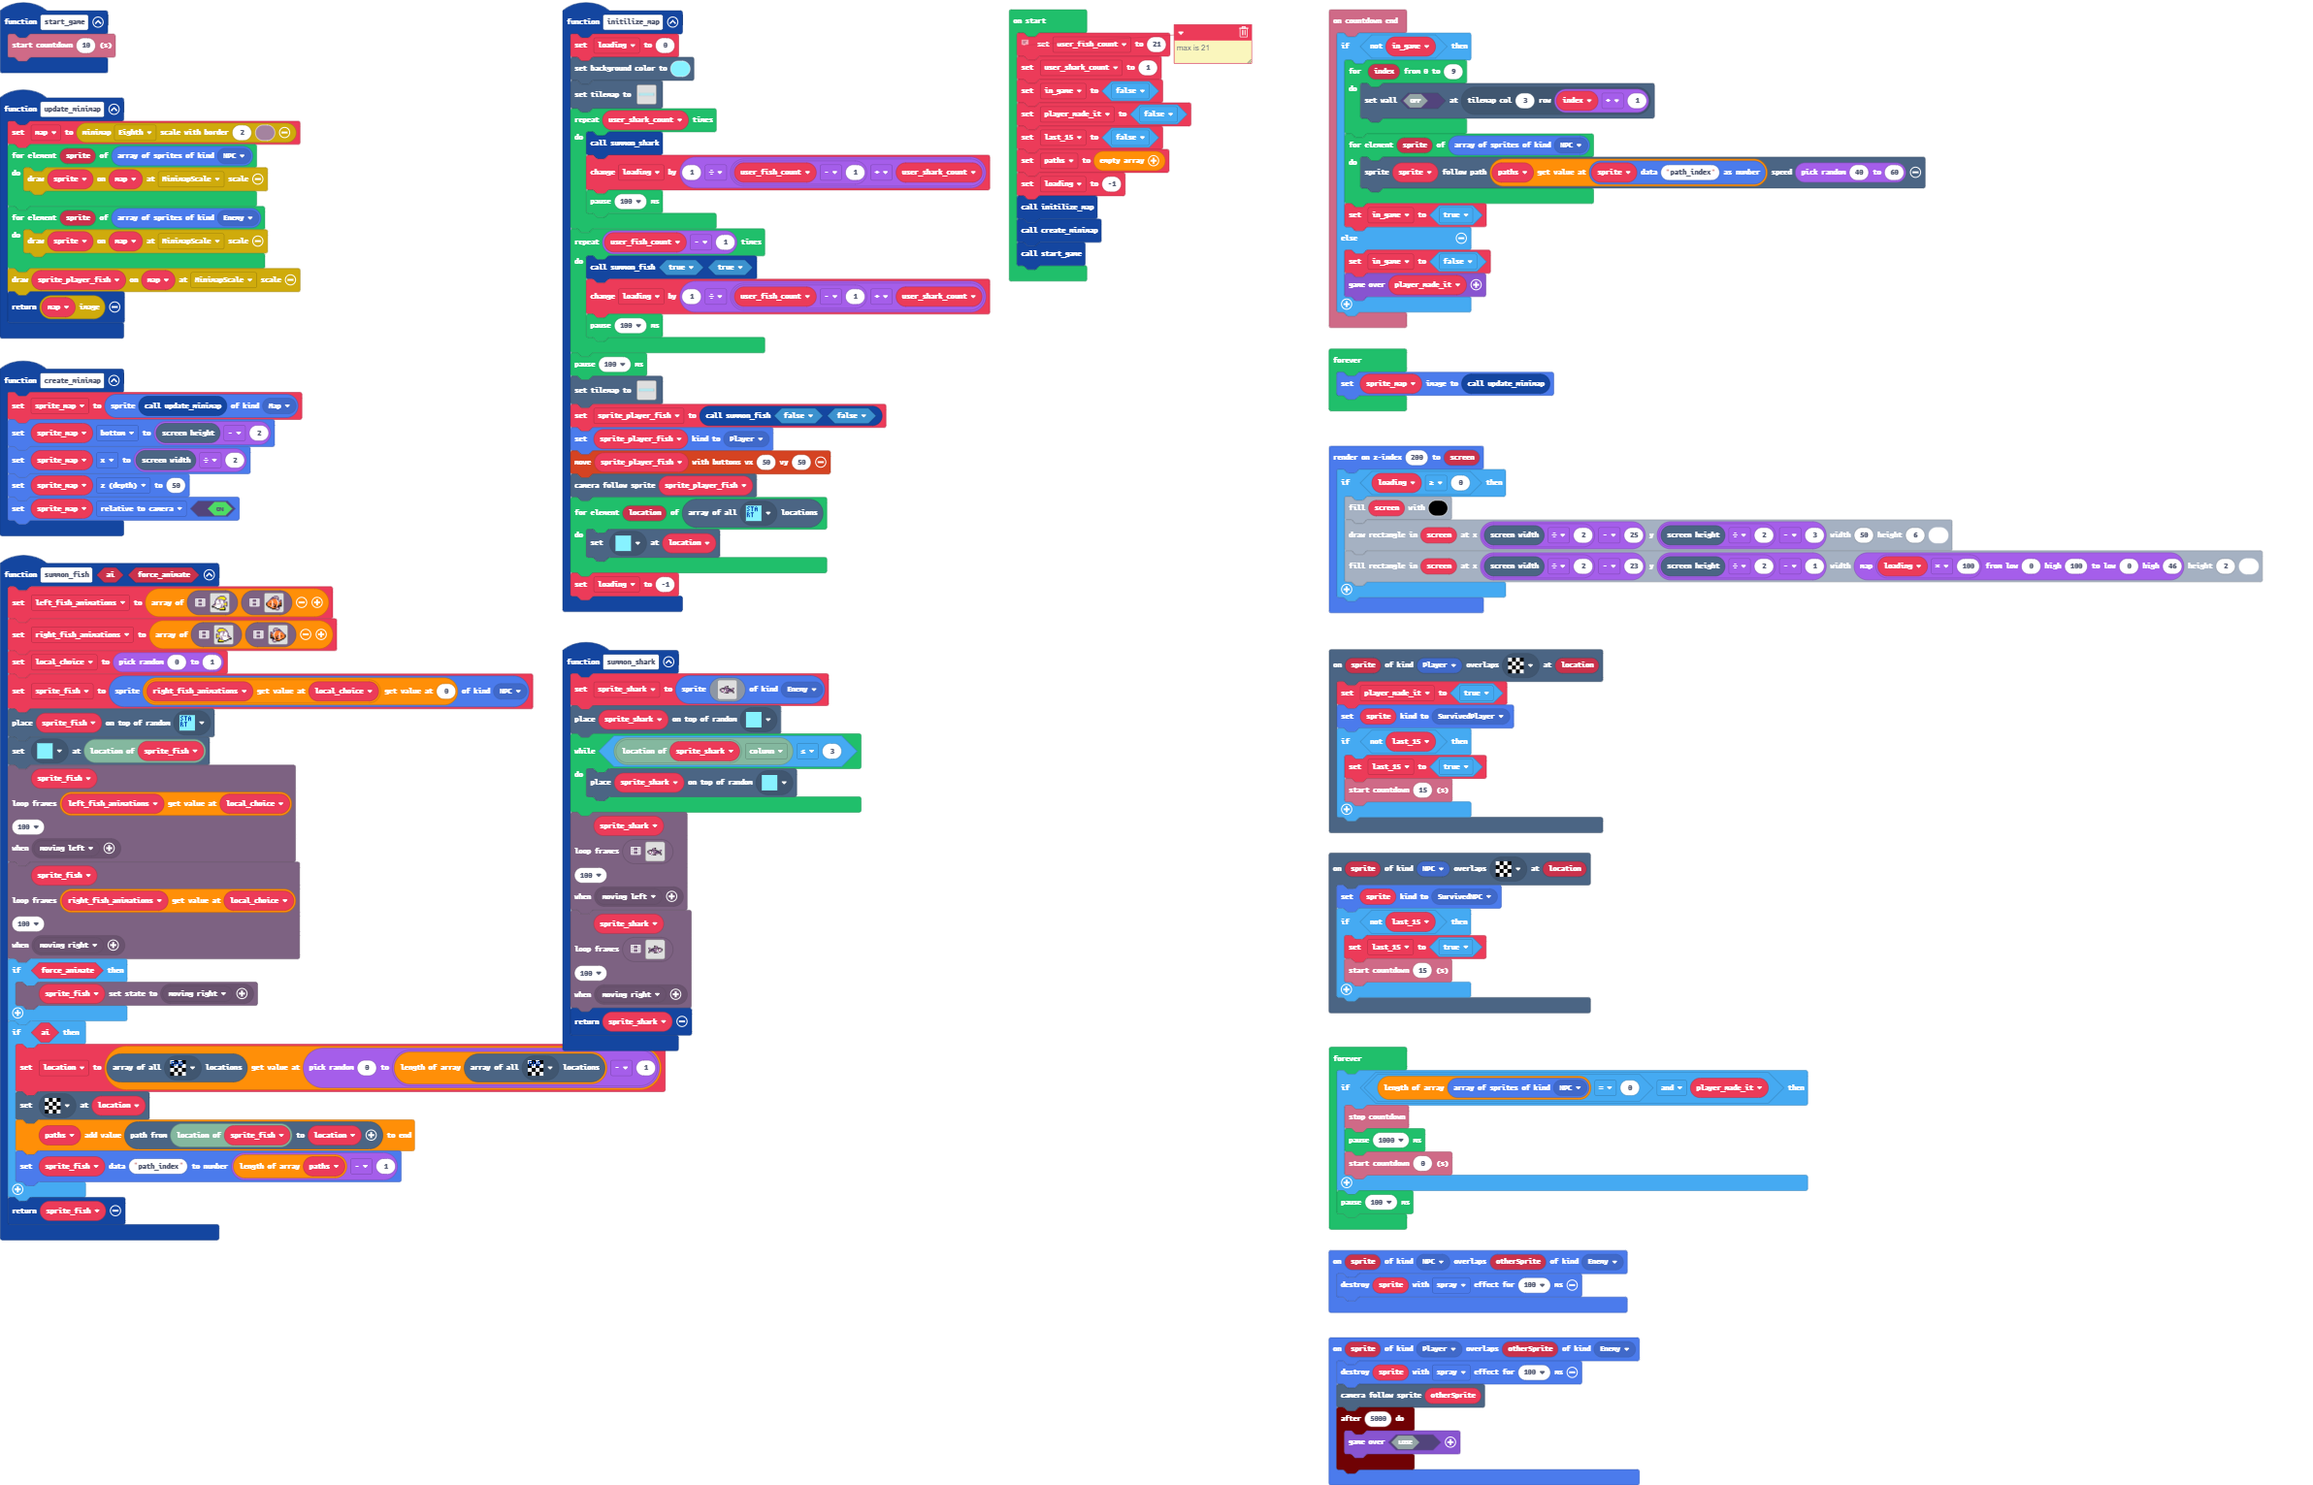
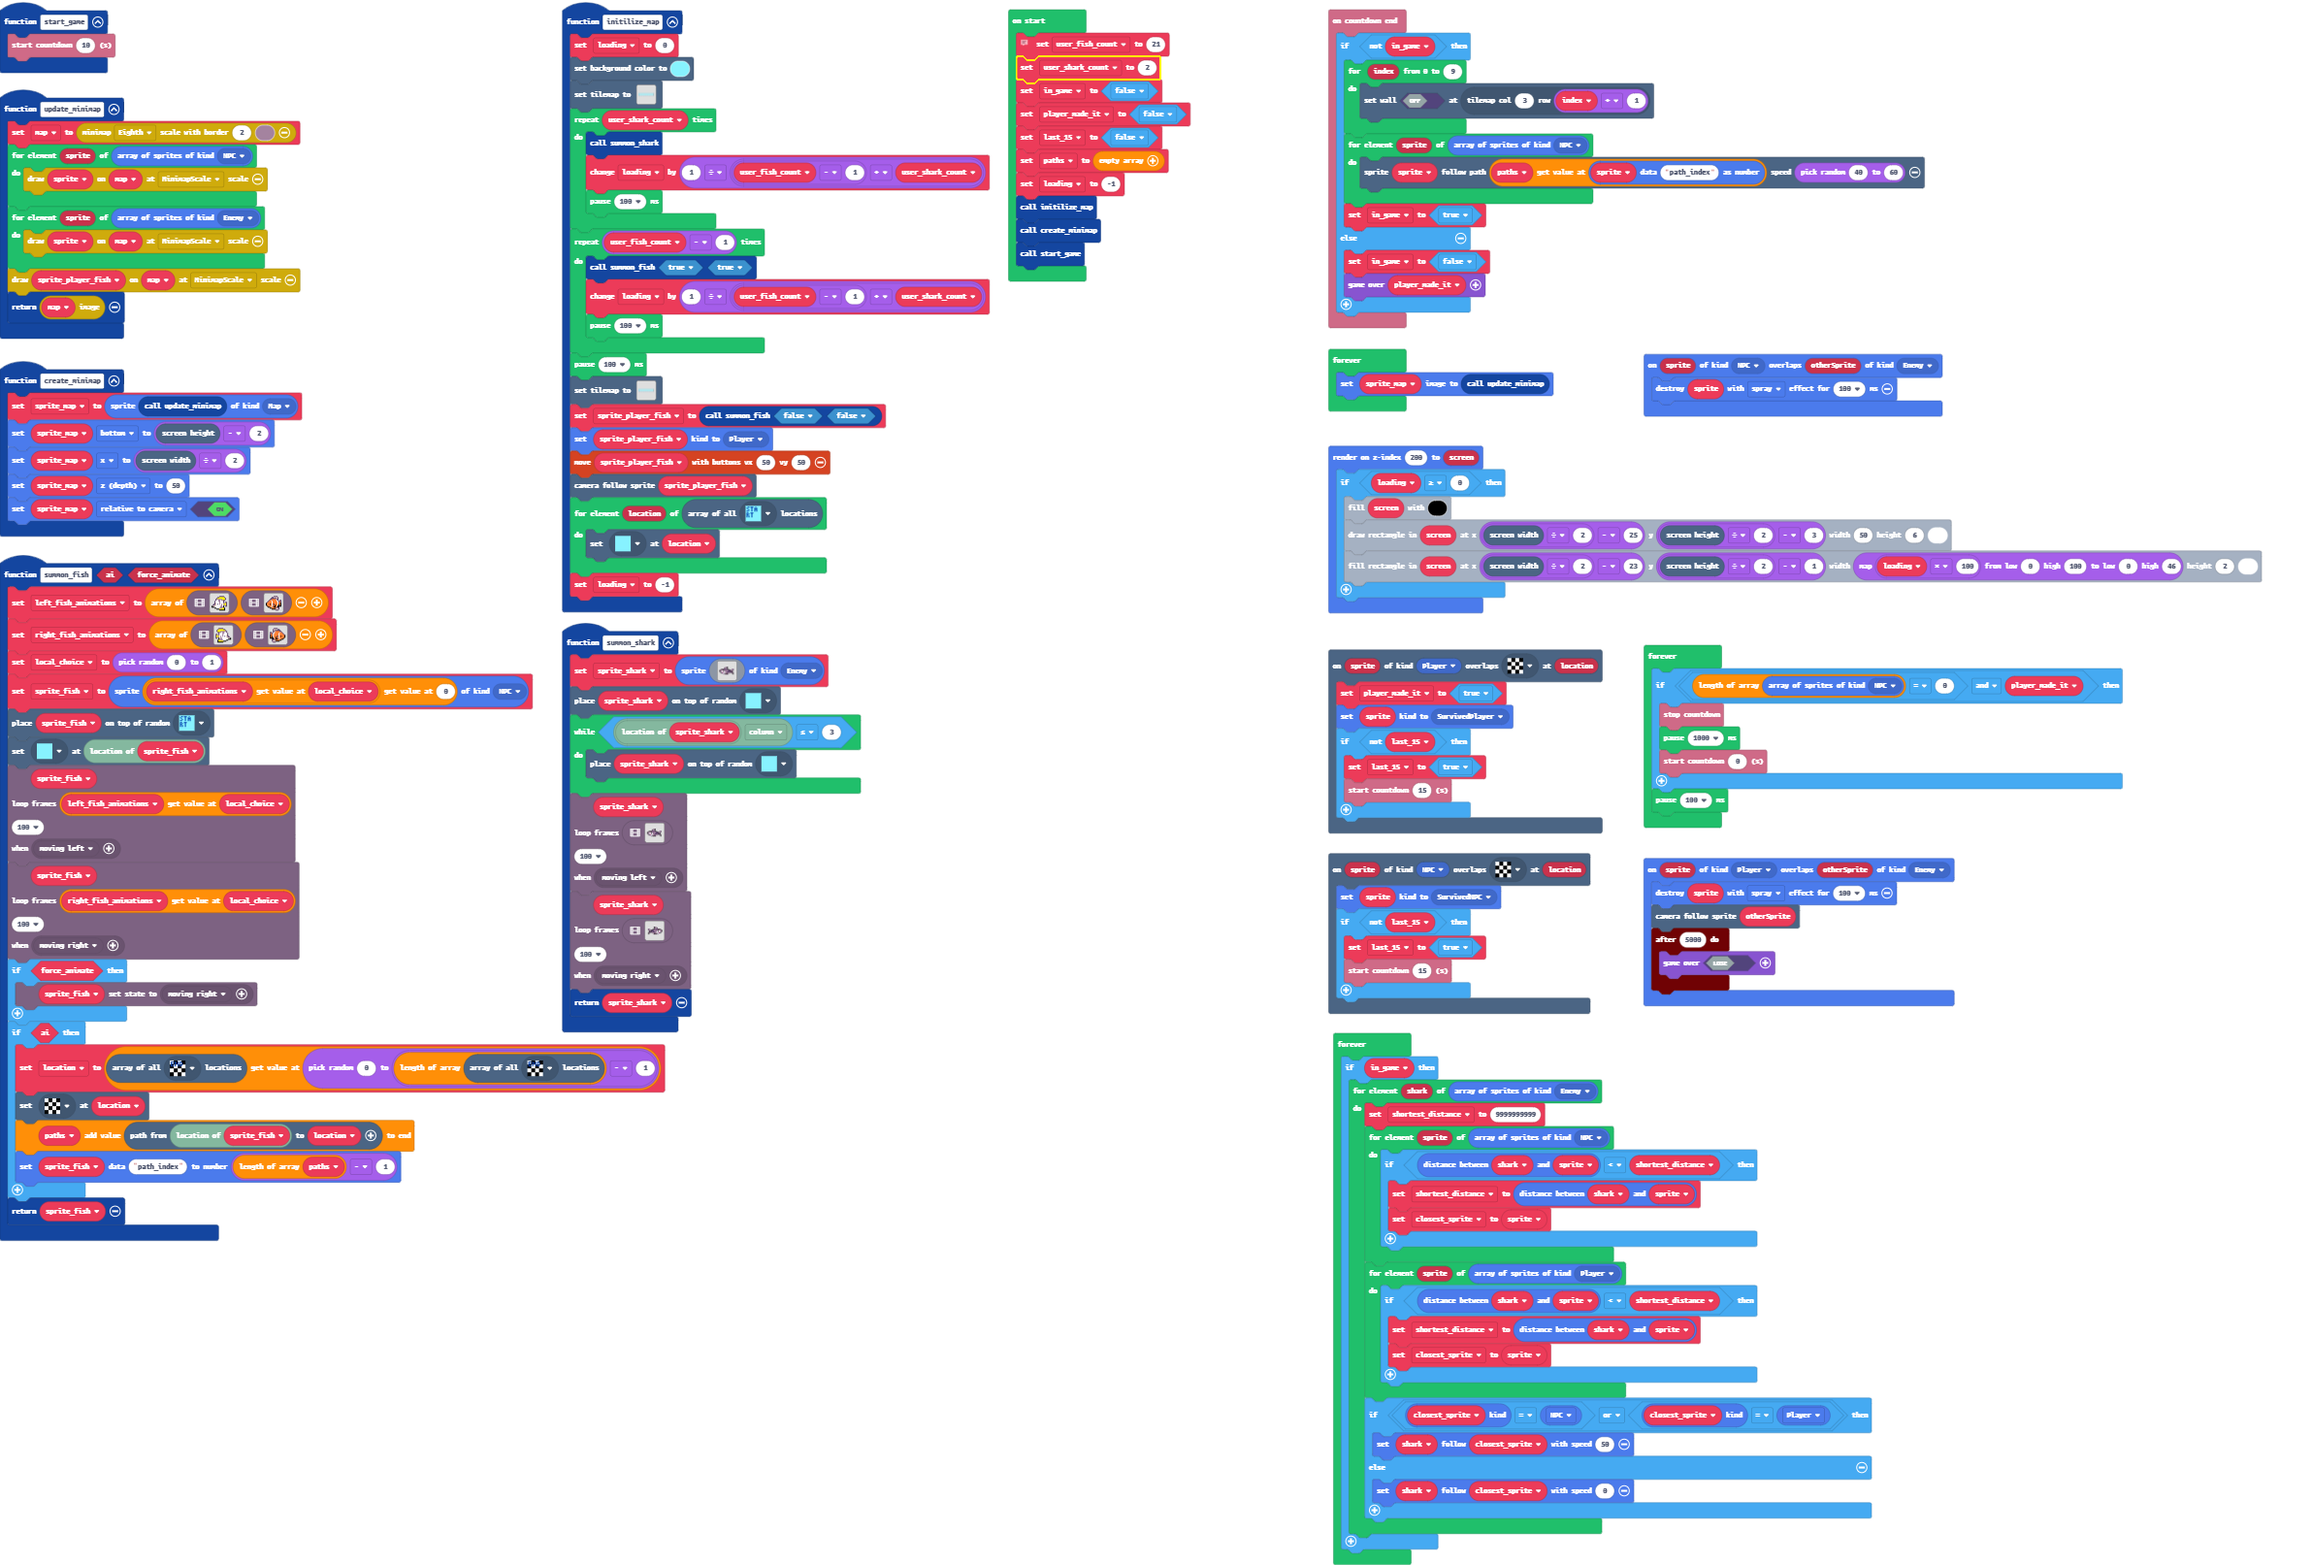
Hungry sharks!

Changed region(s): [[0.0, 0.0, 0.9937, 1.0], [0.7142, 0.2149, 0.8384, 0.2763]]

diff --git a/main.ts b/main.ts
@@ -291,6 +291,8 @@ sprites.onOverlap(SpriteKind.Player, SpriteKind.Enemy, function (sprite, otherSp
         game.over(false)
     })
 })
+let closest_sprite: Sprite = null
+let shortest_distance = 0
 let sprite_map: Sprite = null
 let sprite_shark: Sprite = null
 let map: minimap.Minimap = null
@@ -309,7 +311,7 @@ let user_shark_count = 0
 let user_fish_count = 0
 // max is 21
 user_fish_count = 21
-user_shark_count = 1
+user_shark_count = 2
 in_game = false
 player_made_it = false
 last_15 = false
@@ -328,4 +330,28 @@ forever(function () {
         info.startCountdown(0)
     }
     pause(100)
+})
+forever(function () {
+    if (in_game) {
+        for (let shark of sprites.allOfKind(SpriteKind.Enemy)) {
+            shortest_distance = 9999999999
+            for (let sprite of sprites.allOfKind(SpriteKind.NPC)) {
+                if (spriteutils.distanceBetween(shark, sprite) < shortest_distance) {
+                    shortest_distance = spriteutils.distanceBetween(shark, sprite)
+                    closest_sprite = sprite
+                }
+            }
+            for (let sprite of sprites.allOfKind(SpriteKind.Player)) {
+                if (spriteutils.distanceBetween(shark, sprite) < shortest_distance) {
+                    shortest_distance = spriteutils.distanceBetween(shark, sprite)
+                    closest_sprite = sprite
+                }
+            }
+            if (closest_sprite.kind() == SpriteKind.NPC || closest_sprite.kind() == SpriteKind.Player) {
+                shark.follow(closest_sprite, 50)
+            } else {
+                shark.follow(closest_sprite, 0)
+            }
+        }
+    }
 })
